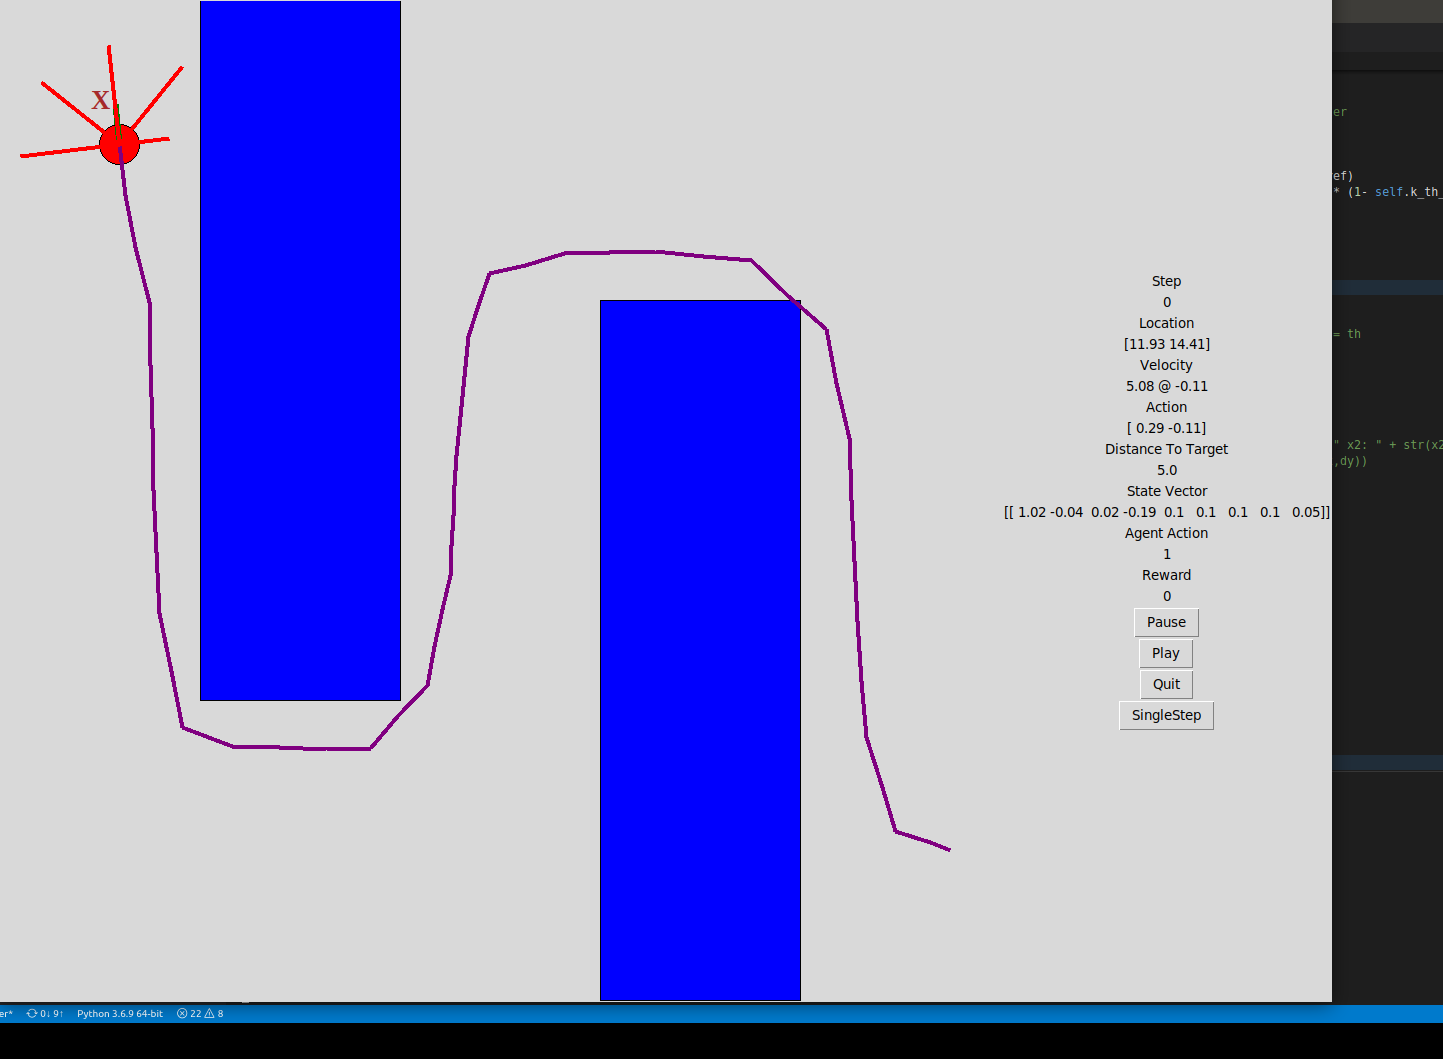
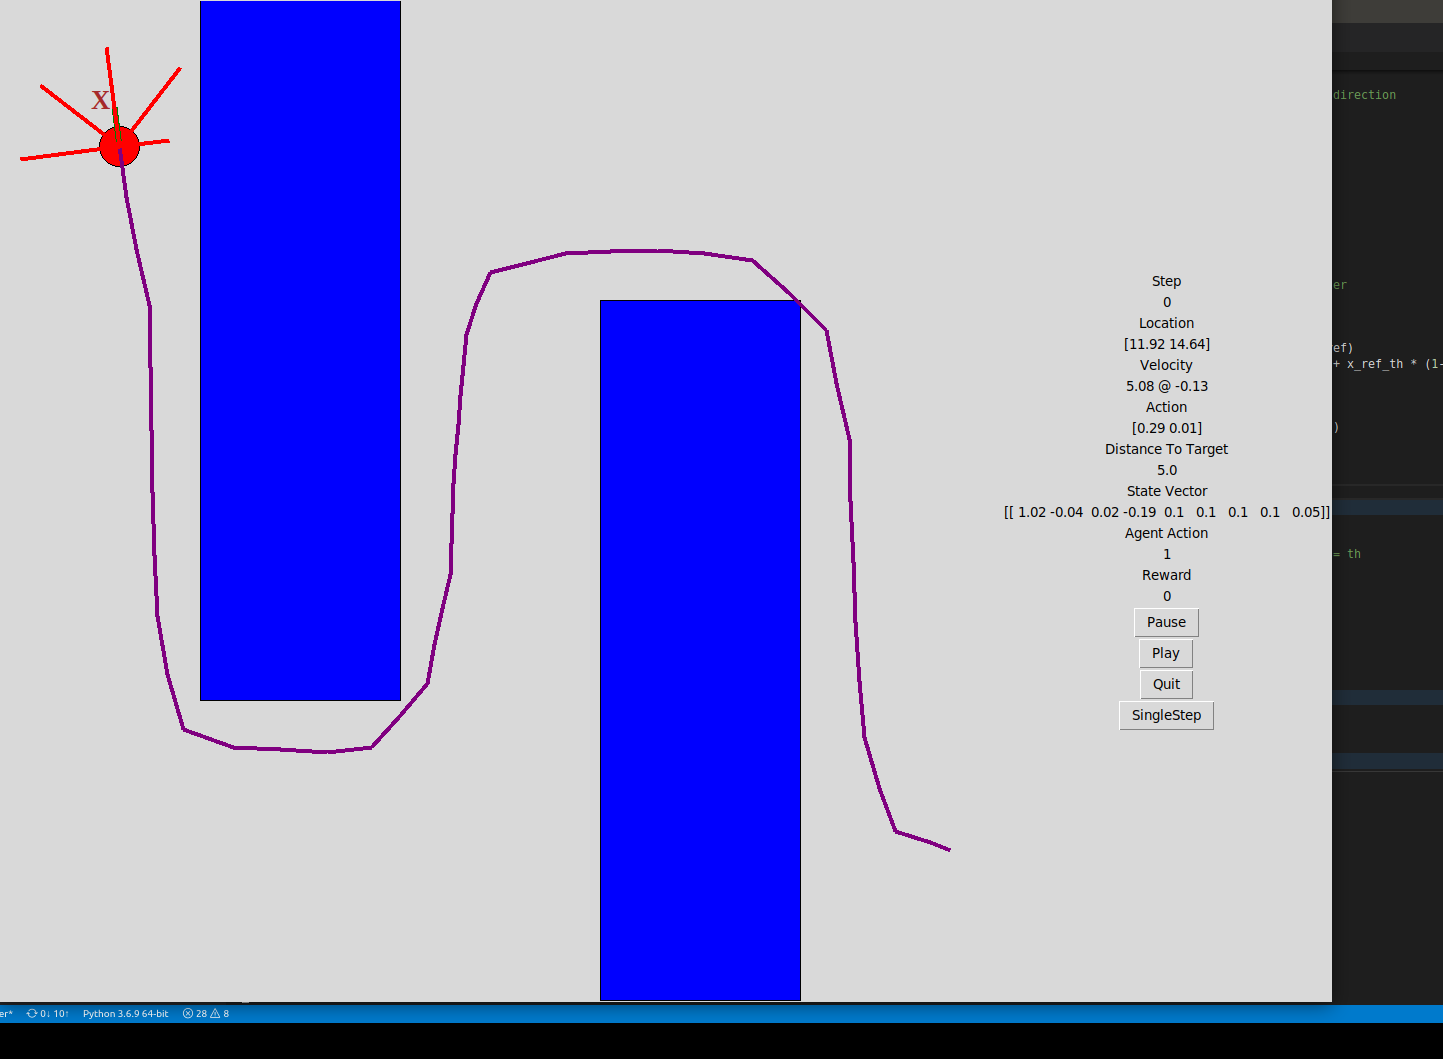
Got bicycle dynamics working

diff --git a/PathTracker.py b/PathTracker.py
@@ -8,6 +8,8 @@ import LibFunctions as f
 class ControlSystem:
     def __init__(self):
         self.k_th_ref = 0.1 # amount to favour v direction
+        self.k_th = 0.8
+        self.L = 1
 
     def __call__(self, state, destination):
         # print(glbl_wp.x)
@@ -22,10 +24,13 @@ class ControlSystem:
 
         # run th control
         x_ref_th = self._get_xref_th(state.x, x_ref)
-        e_th = th_ref * self.k_th_ref + x_ref_th * (1- self.k_th_ref) # no feedback
-        th = self._th_controll(e_th)
+        th_ref_combined = th_ref * self.k_th_ref + x_ref_th * (1- self.k_th_ref) # no feedback
 
-        action = [a, th]
+        new_v = state.v + a
+        e_th = th_ref_combined - state.theta
+        delta = np.arctan(e_th * self.L / (new_v)) 
+
+        action = [a, delta]
         return action
 
     def _acc_control(self, e_v):
@@ -37,7 +42,12 @@ class ControlSystem:
     def _th_controll(self, e_th):
         # theta controller to come here when dth!= th
 
-        return e_th
+        th = e_th * self.k_th
+
+        th = max(-np.pi, e_th)
+        th = min(np.pi, e_th)
+
+        return th
 
     def _get_xref_th(self, x1, x2):
         dx = x2[0] - x1[0]

diff --git a/StateStructs.py b/StateStructs.py
@@ -106,10 +106,10 @@ class CarModel:
 
     def update_controlled_state(self, action, dt):
         a = action[0]
-        th = action[1]
+
         self.v += a * dt - self.friction * self.v
 
-        self.theta = th # assume no th integration to start
+        self.theta += self.v / self.L * np.tan(action[1])
         r = self.v * dt
         self.x[0] += r * np.sin(self.theta)
         self.x[1] += - r * np.cos(self.theta)
@@ -118,9 +118,11 @@ class CarModel:
         x = [0.0, 0.0]
         v = action[0] * dt + (1 - self.friction) * self.v  
 
+        theta = self.v / self.L * np.tan(action[1]) + self.theta
+
         r = v * dt
-        x[0] = r * np.sin(action[1]) + self.x[0]
-        x[1] = - r * np.cos(action[1]) + self.x[1]
+        x[0] = r * np.sin(theta) + self.x[0]
+        x[1] = - r * np.cos(theta) + self.x[1]
         
         return x
 

diff --git a/RaceEnv.py b/RaceEnv.py
@@ -109,7 +109,7 @@ class RaceEnv:
         # self.car_state.print_ranges()
 
     def render_episode(self, screen_name_path, pause=False):
-        dt = 100
+        dt = 60
         self.interface = Interface(self.track, dt)
         self.interface.save_shot_path = screen_name_path
         self.interface.pause_flag = pause

diff --git a/RaceSimulation.py b/RaceSimulation.py
@@ -55,7 +55,7 @@ def simulation_runner(config):
 
 
     while not done:
-        # state.print_point("State")
+        state.print_point("State")
         ref_action = tracker.act(state)
         state, reward, done = env.step(ref_action)
         print(f"Action: [{ref_action[0]:.2f} ; {ref_action[1]:.2f}]")
